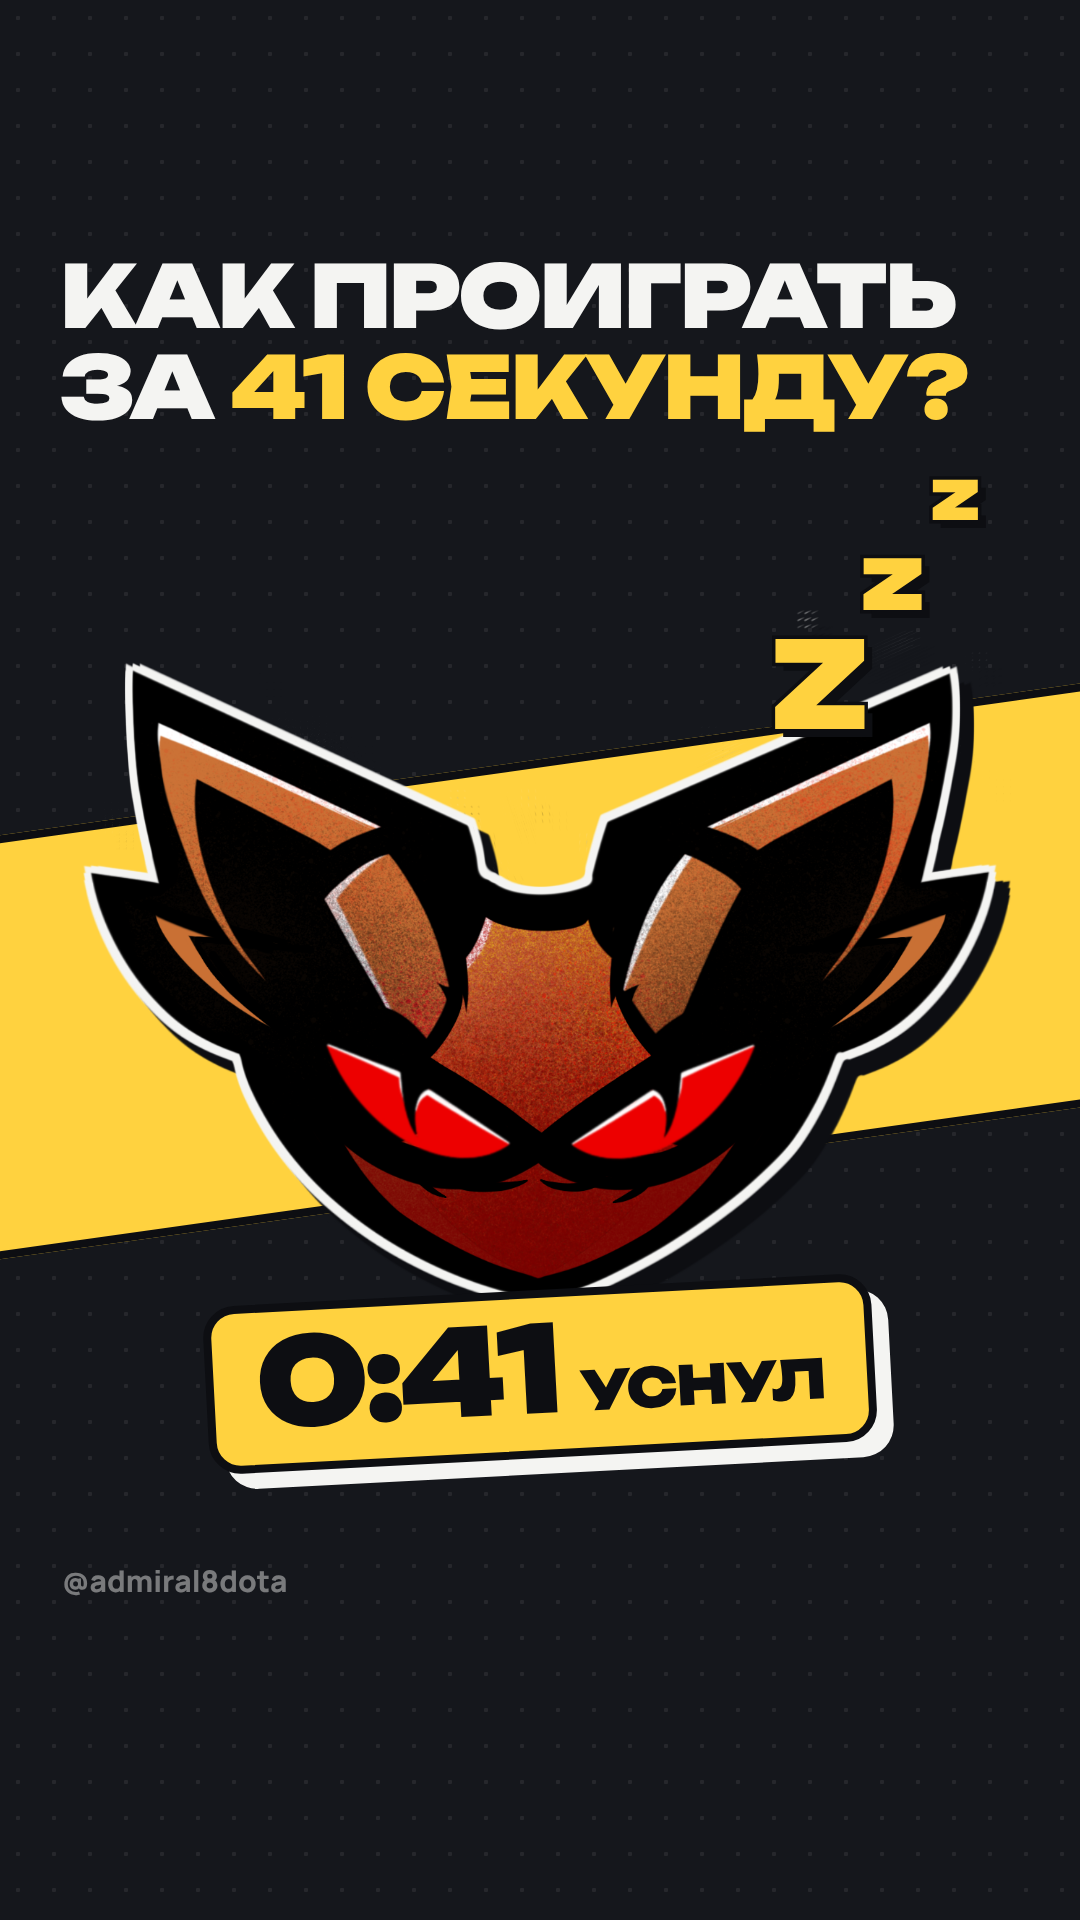
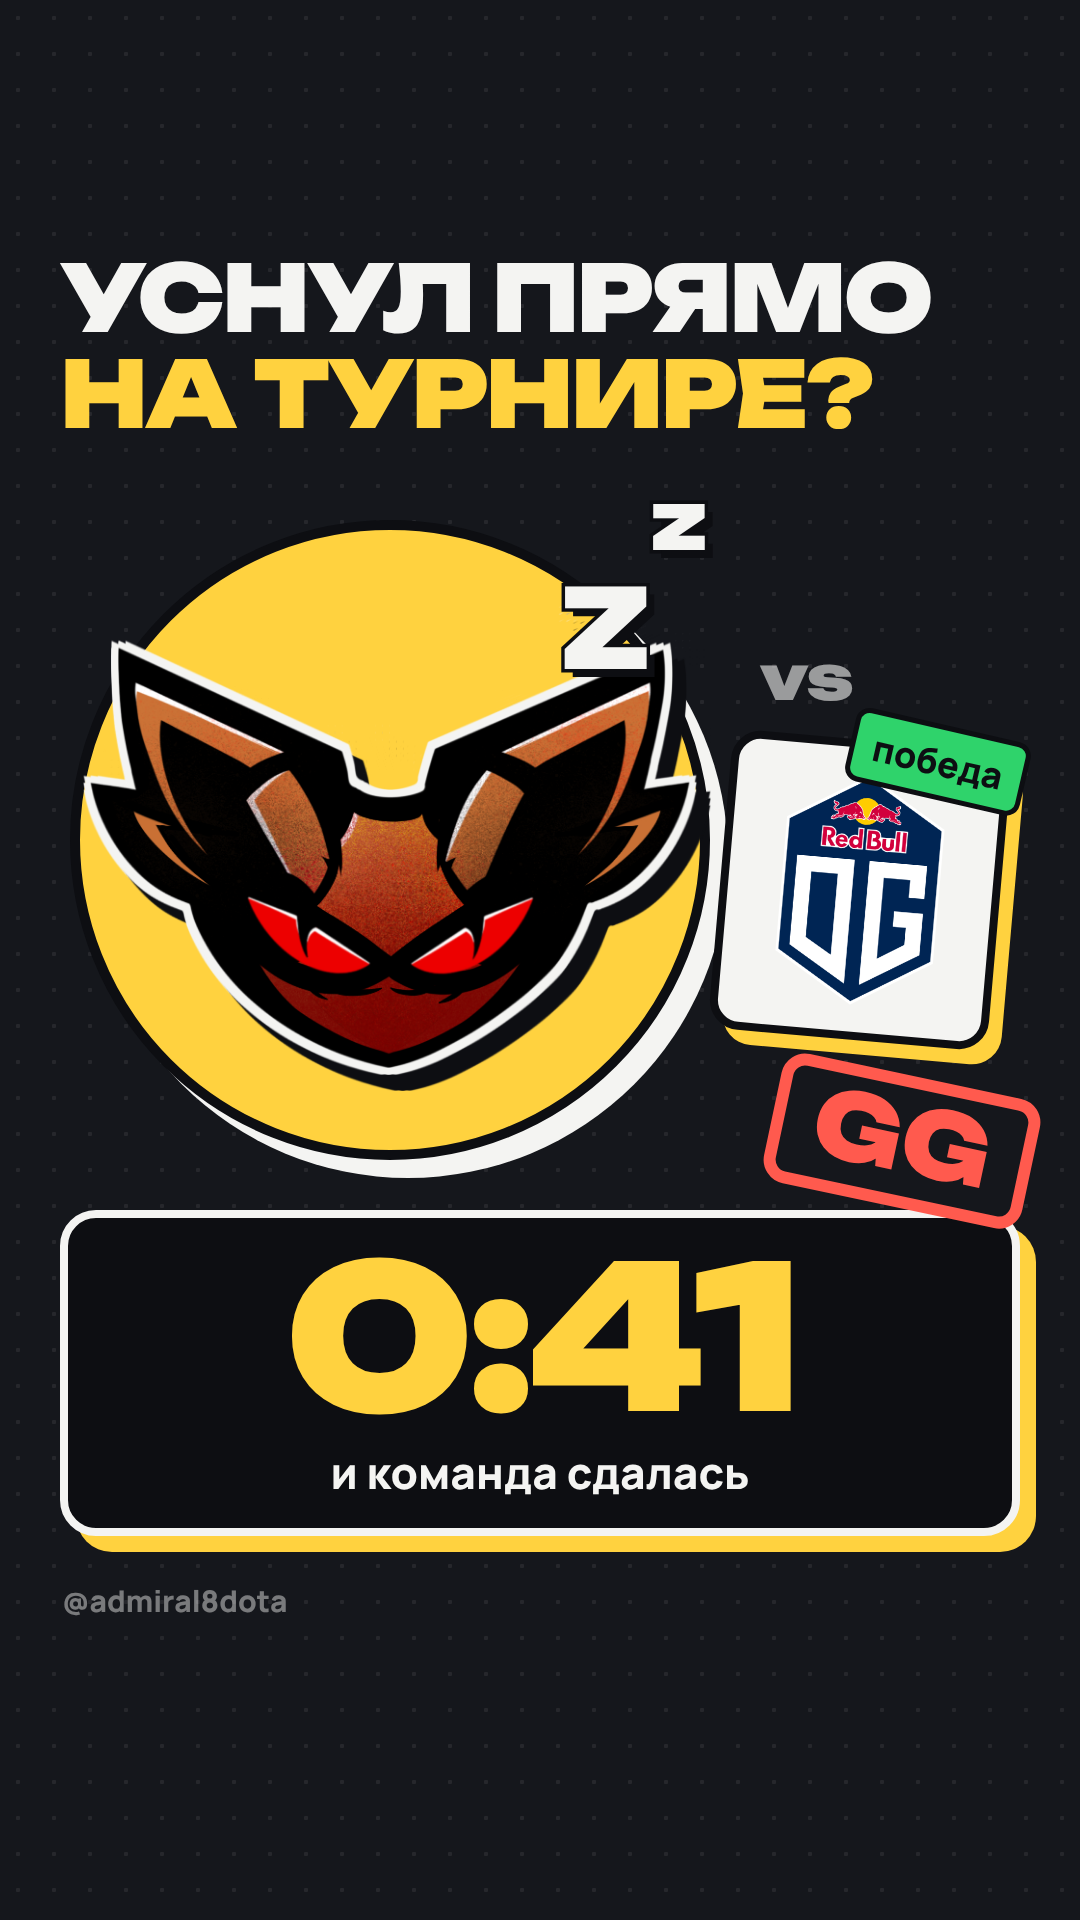
Обложка 003: новая компоновка «матч» [skip ci]
Claude-Session: https://claude.ai/code/session_0175idz4n1ky9aZ7CxkAuYXE

diff --git a/cover_003.html b/cover_003.html
@@ -7,47 +7,59 @@
 @font-face { font-family: Unbounded; font-weight: 900; src: url(fonts/unbounded-latin-900-normal.woff2) format("woff2"); unicode-range: U+0000-00FF; }
 @font-face { font-family: Manrope; font-weight: 800; src: url(fonts/manrope-cyrillic-800-normal.woff2) format("woff2"); }
 @font-face { font-family: Manrope; font-weight: 800; src: url(fonts/manrope-latin-800-normal.woff2) format("woff2"); unicode-range: U+0000-00FF; }
-/* Обложка TikTok 1080×1920. В сетке профиля видна середина ~1080×1440 (y 240–1680) — всё важное там */
-:root { --bg: #15171c; --ink: #f4f4f2; --acc: #ffd23f; --dark: #0d0e12; }
+/* Обложка TikTok 1080×1920. В сетке профиля видна середина ~1080×1440 (y 240–1680) — всё важное там.
+   Компоновка «матч»: логотип уснувшей команды, соперник, плашка-таймер и штамп GG */
+:root { --bg: #15171c; --ink: #f4f4f2; --acc: #ffd23f; --dark: #0d0e12; --red: #ff5a4e; }
 * { margin: 0; padding: 0; box-sizing: border-box; }
 html, body { width: 1080px; height: 1920px; overflow: hidden; background: var(--bg); }
 .dots { position: absolute; inset: 0; background-image: radial-gradient(rgba(255,255,255,.07) 2px, transparent 2.5px); background-size: 36px 36px; }
-.band { position: absolute; left: -80px; top: 760px; width: 1260px; height: 420px; background: var(--acc); transform: rotate(-8deg);
-  border-top: 8px solid var(--dark); border-bottom: 8px solid var(--dark); }
-.head { position: absolute; left: 60px; top: 250px; width: 980px; font: 900 86px/1.06 Unbounded; white-space: nowrap; color: var(--ink);
+/* Круг-«прожектор» за логотипом */
+.spot { position: absolute; left: 70px; top: 520px; width: 640px; height: 640px; border-radius: 50%; background: var(--acc);
+  border: 10px solid var(--dark); box-shadow: 18px 18px 0 var(--ink); }
+.head { position: absolute; left: 60px; top: 250px; width: 960px; font: 900 92px/1.04 Unbounded; color: var(--ink);
   text-transform: uppercase; letter-spacing: -.03em; }
 .head .y { color: var(--acc); }
-/* Логотип — наклейка с белым контуром; рамка задаётся из скрипта по пропорциям */
-.hero { position: absolute;
+/* Логотип — наклейка с белым контуром */
+.logo { position: absolute;
   filter: drop-shadow(7px 0 0 var(--ink)) drop-shadow(-7px 0 0 var(--ink)) drop-shadow(0 7px 0 var(--ink)) drop-shadow(0 -7px 0 var(--ink))
           drop-shadow(14px 16px 0 var(--dark)); }
-.gem { position: absolute; width: 130px; height: 95px; border-radius: 16px; border: 5px solid var(--dark); box-shadow: 7px 7px 0 var(--ink); }
-.num { position: absolute; left: 50%; top: 1290px; transform: translateX(-50%) rotate(-3deg); padding: 10px 42px 22px; border-radius: 32px;
-  background: var(--acc); border: 8px solid var(--dark); box-shadow: 16px 16px 0 var(--ink); white-space: nowrap;
-  font: 900 120px/1 Unbounded; color: var(--dark); letter-spacing: -.05em; }
-.num small { font-size: 54px; letter-spacing: -.02em; }
-.zzz { position: absolute; font-family: Unbounded; font-weight: 900; color: var(--acc); -webkit-text-stroke: 7px var(--dark); paint-order: stroke fill; text-shadow: 8px 8px 0 var(--dark); }
-.wm { position: absolute; left: 62px; top: 1560px; font: 800 30px Manrope; color: rgba(244,244,242,.45); }
+.zzz { position: absolute; font-family: Unbounded; font-weight: 900; color: var(--ink); -webkit-text-stroke: 7px var(--dark); paint-order: stroke fill;
+  text-shadow: 8px 8px 0 var(--dark); }
+.vs { position: absolute; left: 760px; top: 640px; font: 900 60px Unbounded; color: rgba(244,244,242,.6); }
+.opp { position: absolute; left: 720px; top: 740px; width: 280px; height: 300px; border-radius: 30px; background: var(--ink); border: 8px solid var(--dark);
+  box-shadow: 14px 14px 0 var(--acc); display: flex; align-items: center; justify-content: center; transform: rotate(5deg); }
+.opp img { max-width: 190px; max-height: 230px; }
+.win { position: absolute; right: -24px; top: -30px; padding: 8px 18px; border-radius: 14px; background: #2fd36b; color: var(--dark);
+  border: 5px solid var(--dark); font: 800 36px Manrope; transform: rotate(8deg); }
+/* Плашка-таймер с главной цифрой */
+.num { position: absolute; left: 60px; top: 1210px; width: 960px; padding: 18px 0 26px; border-radius: 36px; background: var(--dark);
+  border: 8px solid var(--ink); box-shadow: 16px 16px 0 var(--acc); text-align: center; white-space: nowrap; }
+.num b { font: 900 200px/1 Unbounded; color: var(--acc); letter-spacing: -.04em; }
+.num small { display: block; margin-top: 6px; font: 800 44px Manrope; color: var(--ink); }
+.stamp { position: absolute; left: 770px; top: 1075px; padding: 4px 30px 12px; border: 12px solid var(--red); border-radius: 24px; color: var(--red);
+  font: 900 92px/1 Unbounded; background: var(--bg); transform: rotate(12deg); }
+.wm { position: absolute; left: 62px; top: 1580px; font: 800 30px Manrope; color: rgba(244,244,242,.45); }
 </style>
 </head>
 <body>
 <div class="dots"></div>
-<div class="band"></div>
-<img class="hero" id="hero" src="assets/teams/mosquito_clan.png">
-<!-- «Zzz»: игрок уснул -->
-<div class="zzz" style="left:770px;top:610px;font-size:120px">Z</div>
-<div class="zzz" style="left:860px;top:520px;font-size:90px">z</div>
-<div class="zzz" style="left:930px;top:450px;font-size:70px">z</div>
-<div class="head">Как проиграть<br>за <span class="y">41 секунду?</span></div>
-<div class="num">0:41 <small>УСНУЛ</small></div>
+<div class="head">Уснул прямо<br><span class="y">на турнире?</span></div>
+<div class="spot"></div>
+<img class="logo" id="logo" src="assets/teams/mosquito_clan.png">
+<div class="zzz" style="left:560px;top:560px;font-size:110px">Z</div>
+<div class="zzz" style="left:650px;top:470px;font-size:80px">z</div>
+<div class="vs">vs</div>
+<div class="opp"><img src="assets/teams/og.png"><div class="win">победа</div></div>
+<div class="num"><b>0:41</b><small>и команда сдалась</small></div>
+<div class="stamp">GG</div>
 <div class="wm">@admiral8dota</div>
 <script>
-// Логотип уснувшей команды вписывается в рамку 900×700 низом на плашку, по центру
-const im = document.getElementById("hero");
+// Логотип вписывается в круг-прожектор: рамка 600×560 по центру круга
+const im = document.getElementById("logo");
 im.onload = () => {
-  const k = Math.min(900 / im.naturalWidth, 700 / im.naturalHeight);
+  const k = Math.min(600 / im.naturalWidth, 560 / im.naturalHeight);
   const w = im.naturalWidth * k, h = im.naturalHeight * k;
-  im.style.width = w + "px"; im.style.left = (540 - w / 2) + "px"; im.style.top = (1300 - h) + "px";
+  im.style.width = w + "px"; im.style.left = (390 - w / 2) + "px"; im.style.top = (840 - h / 2) + "px";
 };
 </script>
 </body>
